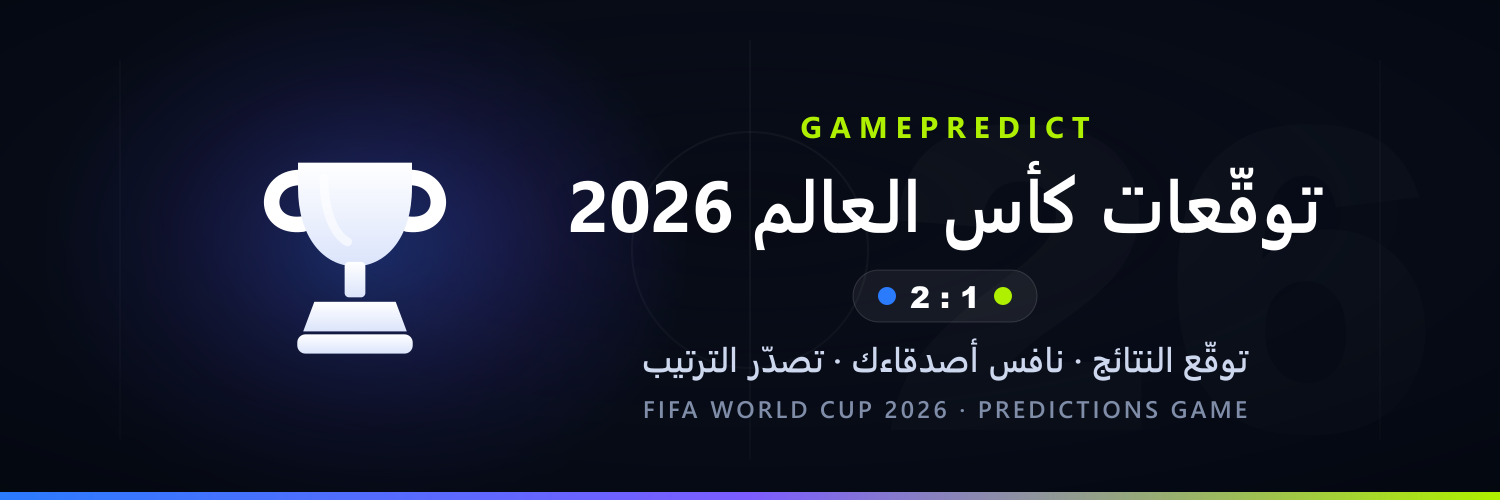
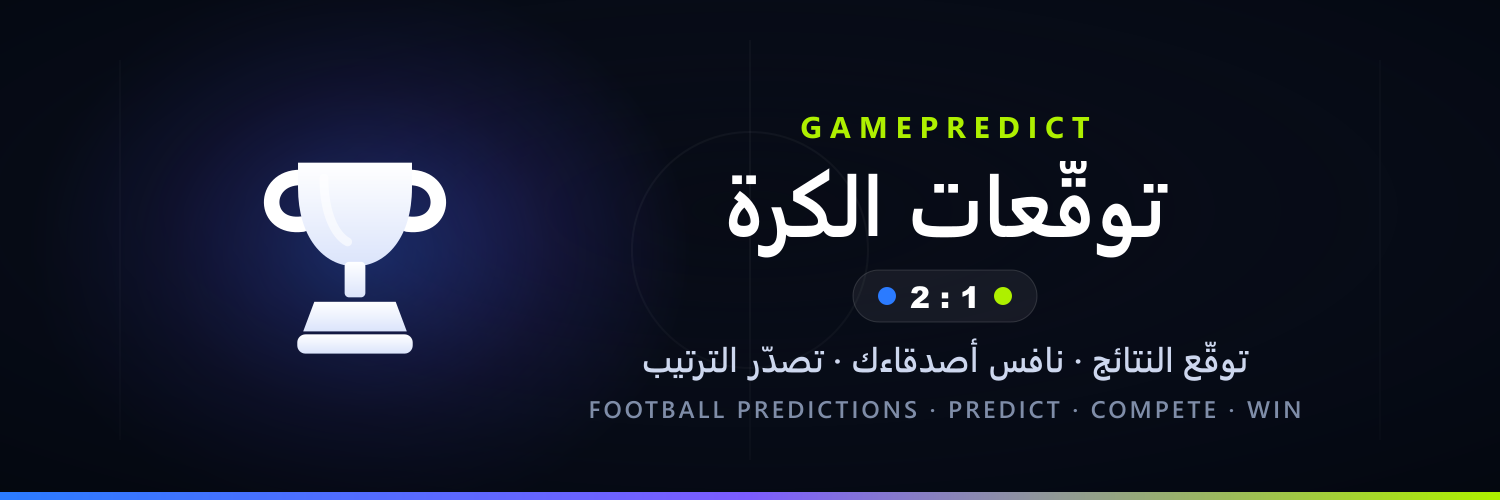
Rebrand app identity to be tournament-agnostic
The app may outlive the World Cup, so neutralize the identity (the actual WC
matches/in-app copy are left as-is for now):
- App name → "GamePredict — توقّعات الكرة" / "GamePredict — Football Predictions".
- Logo/login kicker → "FOOTBALL PREDICTIONS" (was "World Cup 26").
- Manifest name + description made generic.
- X header: title "توقّعات الكرة", generic English subline, dropped the WC "26"
  watermark.

Changed region(s): [[0.368, 0.3, 0.8893, 0.51], [0.3987, 0.78, 0.8893, 0.84]]

diff --git a/src/lib/i18n.ts b/src/lib/i18n.ts
@@ -12,8 +12,8 @@ export function dirFor(locale: Locale): "rtl" | "ltr" {
 }
 
 const ar = {
-  appName: "توقعات كأس العالم 2026",
-  worldCup26: "World Cup 26",
+  appName: "GamePredict — توقّعات الكرة",
+  worldCup26: "FOOTBALL PREDICTIONS",
   sampleNotice:
     "⚠️ بيانات تجريبية: المباريات المعروضة حالياً للاختبار فقط وليست الجدول الرسمي لكأس العالم.",
   // nav
@@ -516,8 +516,8 @@ const ar = {
 type Dict = typeof ar;
 
 const en: Dict = {
-  appName: "FIFA World Cup 2026 Predictions",
-  worldCup26: "World Cup 26",
+  appName: "GamePredict — Football Predictions",
+  worldCup26: "FOOTBALL PREDICTIONS",
   sampleNotice:
     "⚠️ Sample data: the matches shown are for testing only and are not the official World Cup schedule.",
   matches: "Matches",